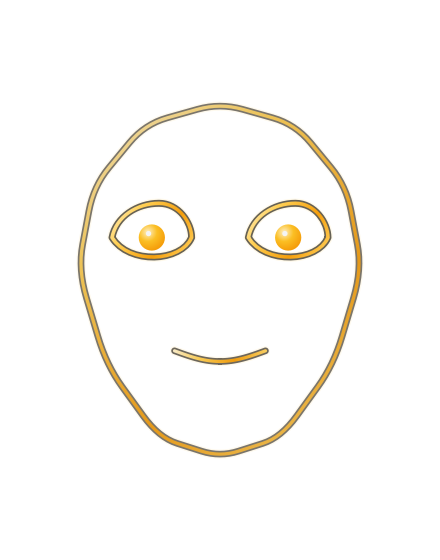
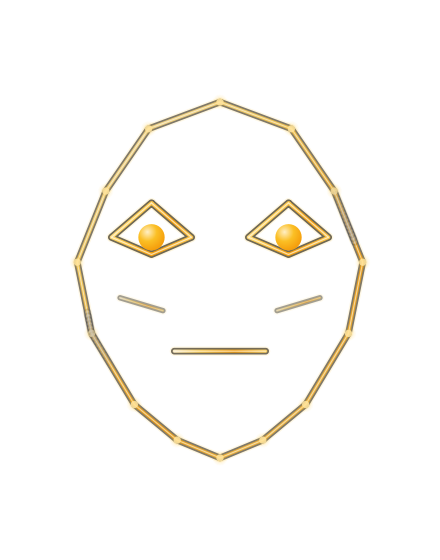
fix: restore the angular light-beam face with flowing highlights (#862)
The rounded face lost Jarvis's recognisable light-beam mask. Restore the original angular crown, temples and jaw, diamond eyes, glowing junctions, cheek accents and a straight resting mouth.

Add bright narrow beam cores and two slow flowing highlights that intensify during processing. Preserve the frameless transparent presence, bounded breathing and glances, hidden-window suspension and elapsed-time animation. Update the specification, actual-widget README image and reviewed visual baselines.

Validation: three rendered regression cases demonstrated failures before their changes. Face behaviour and visual tests: 276 passed. Animation and appearance at 2x DPI: 31 passed. Actual-widget light/dark state and motion previews inspected. Full unit suite: 2069 passed, one existing SQLite VSS skip. A screenshot-resolution failure was corrected with a fresh native vector capture. Local processing-state rendering averaged 1.07 ms per frame. This is vector lighting, not a GPU shader or a 3D renderer.

diff --git a/src/desktop_app/face_widget.py b/src/desktop_app/face_widget.py
@@ -127,10 +127,10 @@ def get_jarvis_state() -> JarvisStateManager:
 
 
 class FaceWidget(QWidget):
-    """A warm amber outline with quiet, time-based expressions.
+    """An angular light-beam mask with quiet, time-based expressions.
 
-    Only the contour, eyes and mouth paint over the desktop. Motion stays
-    within that silhouette, apart from a close-fitting interaction echo.
+    Only the connected beams, junctions, eyes and mouth paint over the desktop.
+    Motion stays within that silhouette, apart from a close-fitting interaction echo.
     """
 
     state_observed = pyqtSignal(str)
@@ -284,7 +284,9 @@ class FaceWidget(QWidget):
         self._draw_state_contour(painter, cx, cy, width, height)
         contour = self._face_contour(cx, cy, width, height)
         self._stroke(painter, contour, 1.65, 0.46 + 0.4 * self._activation_level)
-        self._draw_thinking_light(painter, contour)
+        self._draw_mask_junctions(painter, contour)
+        self._draw_accent_lines(painter, cx, cy, width, height)
+        self._draw_beam_flow(painter, contour)
         eye_y = cy - height * 0.12
         for is_left in (True, False):
             eye_x = cx + (-1 if is_left else 1) * width * 0.24
@@ -305,26 +307,45 @@ class FaceWidget(QWidget):
 
     @staticmethod
     def _face_contour(cx: float, cy: float, width: float, height: float) -> QPainterPath:
-        """A continuous, softly faceted silhouette with a rounded chin."""
+        """The angular crown, temples and tapered jaw of the light-beam mask."""
         hw, hh = width / 2, height / 2
         vertices = [QPointF(cx + x * hw, cy + y * hh) for x, y in (
-            (0, -1), (0.53, -0.88), (0.89, -0.53), (1, -0.06),
-            (0.80, 0.48), (0.43, 0.89), (0, 1), (-0.43, 0.89),
-            (-0.80, 0.48), (-1, -0.06), (-0.89, -0.53), (-0.53, -0.88),
+            (0, -1), (0.5, -0.85), (0.8, -0.5), (1, -0.1),
+            (0.9, 0.3), (0.6, 0.7), (0.3, 0.9), (0, 1),
+            (-0.3, 0.9), (-0.6, 0.7), (-0.9, 0.3), (-1, -0.1),
+            (-0.8, -0.5), (-0.5, -0.85),
         )]
-        path = QPainterPath()
-        for index, vertex in enumerate(vertices):
-            previous = vertices[index - 1]
-            following = vertices[(index + 1) % len(vertices)]
-            enter = vertex + (previous - vertex) * 0.30
-            leave = vertex + (following - vertex) * 0.30
-            if index == 0:
-                path.moveTo(enter)
-            else:
-                path.lineTo(enter)
-            path.quadTo(vertex, leave)
+        path = QPainterPath(vertices[0])
+        for vertex in vertices[1:]:
+            path.lineTo(vertex)
         path.closeSubpath()
         return path
+
+    def _draw_mask_junctions(self, painter: QPainter, contour: QPainterPath):
+        """Small fixed lights join the beams without wandering beyond the mask."""
+        painter.save()
+        painter.setPen(Qt.PenStyle.NoPen)
+        painter.setOpacity(0.46 + 0.4 * self._activation_level)
+        for index in range(contour.elementCount() - 1):
+            vertex = contour.elementAt(index)
+            glow = QRadialGradient(vertex.x, vertex.y, 4)
+            light = QColor(self.PRIMARY_COLOUR)
+            light.setAlpha(90)
+            glow.setColorAt(0, light)
+            glow.setColorAt(1, QColor(0, 0, 0, 0))
+            painter.setBrush(glow)
+            painter.drawEllipse(QPointF(vertex.x, vertex.y), 4, 4)
+            painter.setBrush(self.PRIMARY_COLOUR.lighter(150))
+            painter.drawEllipse(QPointF(vertex.x, vertex.y), 1.8, 1.8)
+        painter.restore()
+
+    def _draw_accent_lines(self, painter: QPainter, cx: float, cy: float,
+                           width: float, height: float):
+        """Short cheek beams give the transparent mask its geometric structure."""
+        for side in (-1, 1):
+            path = QPainterPath(QPointF(cx + side * width * 0.35, cy + height * 0.05))
+            path.lineTo(cx + side * width * 0.20, cy + height * 0.05 + width * 0.045)
+            self._stroke(painter, path, 1, 0.25 + 0.35 * self._activation_level)
 
     def _stroke(self, painter: QPainter, path: QPainterPath, width: float,
                 opacity: float, colour: Optional[QColor] = None):
@@ -339,7 +360,7 @@ class FaceWidget(QWidget):
         painter.setPen(pen)
         painter.drawPath(path)
         glow = QColor(colour or self.PRIMARY_COLOUR)
-        glow.setAlpha(24)
+        glow.setAlpha(36)
         pen.setColor(glow)
         pen.setWidthF(width + 3.0)
         painter.setPen(pen)
@@ -357,11 +378,17 @@ class FaceWidget(QWidget):
         pen.setWidthF(width)
         painter.setPen(pen)
         painter.drawPath(path)
+        core = QColor(colour or self.PRIMARY_COLOUR.lighter(185))
+        core.setAlpha(170)
+        pen.setColor(core)
+        pen.setWidthF(max(0.45, width * 0.35))
+        painter.setPen(pen)
+        painter.drawPath(path)
         painter.restore()
 
     def _draw_eye(self, painter: QPainter, ex: float, ey: float,
                   size: float, blink_factor: float, is_left: bool):
-        """Round, open eyes and relaxed closed lids, with no filled backdrop."""
+        """Diamond eye beams retain the mask identity through expressions and blinks."""
         openness = self._activation_level * (1.0 - blink_factor)
         height = size * (0.86 + self._listening * 0.10)
         if self._expression == Expression.HAPPY:
@@ -377,15 +404,13 @@ class FaceWidget(QWidget):
         height *= openness
         path = QPainterPath(QPointF(ex - size, ey))
         if openness < 0.05:
-            path.quadTo(ex, ey + size * 0.30, ex + size, ey)
+            path.lineTo(ex + size, ey)
             self._stroke(painter, path, 1.5, 0.52 + self._activation_level * 0.48)
             return
-        path.cubicTo(ex - size * 0.90, ey - height * 0.62,
-                     ex - size * 0.36, ey - height, ex + size * 0.18, ey - height)
-        path.cubicTo(ex + size * 0.68, ey - height,
-                     ex + size, ey - height * 0.44, ex + size, ey)
-        path.cubicTo(ex + size * 0.74, ey + height * 0.72,
-                     ex - size * 0.58, ey + height * 0.80, ex - size, ey)
+        path.lineTo(ex, ey - height)
+        path.lineTo(ex + size, ey)
+        path.lineTo(ex, ey + height * 0.5)
+        path.closeSubpath()
         opacity = 0.52 + self._activation_level * 0.48
         self._stroke(painter, path, 1.8, opacity)
         if openness < 0.15:
@@ -403,32 +428,31 @@ class FaceWidget(QWidget):
         painter.setBrush(pupil)
         painter.setPen(Qt.PenStyle.NoPen)
         painter.drawEllipse(QPointF(pupil_x, pupil_y), pupil_size, pupil_size)
-        painter.setBrush(QColor(COLORS['text_primary']))
-        painter.drawEllipse(QPointF(pupil_x - pupil_size * 0.25, pupil_y - pupil_size * 0.3),
-                            pupil_size * 0.20, pupil_size * 0.20)
         painter.restore()
 
-    def _draw_thinking_light(self, painter: QPainter, contour: QPainterPath):
-        """A short travelling rim glint leaves the eyes available for expression."""
-        if self._thinking < 0.001:
+    def _draw_beam_flow(self, painter: QPainter, contour: QPainterPath):
+        """Coherent energy flows through fixed beams, brighter during processing."""
+        if self._activation_level < 0.001:
             return
-        phase = self._state_elapsed / 3.6 % 1.0
-        for index in range(12):
-            start = (phase - index * 0.004) % 1.0
-            end = (start + 0.004) % 1.0
-            if end < start:
-                continue
-            glint = QPainterPath(contour.pointAtPercent(start))
-            glint.lineTo(contour.pointAtPercent(end))
-            self._stroke(painter, glint, 1.8, self._thinking * (1 - index / 12) * 0.7,
-                         self.PRIMARY_COLOUR.lighter(175))
+        # Continuous phase avoids a jump when the assistant changes state.
+        phase = self._elapsed / 12 % 1.0
+        intensity = self._activation_level * (0.22 + self._thinking * 0.48)
+        for offset in (0.0, 0.5):
+            for index in range(16):
+                start = (phase + offset - index * 0.004) % 1.0
+                end = (start + 0.004) % 1.0
+                if end < start:
+                    continue
+                glint = QPainterPath(contour.pointAtPercent(start))
+                glint.lineTo(contour.pointAtPercent(end))
+                self._stroke(painter, glint, 2.2, intensity * (1 - index / 16),
+                             self.PRIMARY_COLOUR.lighter(190))
 
     def _draw_mouth(self, painter: QPainter, cx: float, cy: float,
                     face_width: float, face_height: float):
-        """A slight smile opens into a quiet, tapered speaking waveform."""
+        """A straight mask seam opens into a quiet, tapered speaking waveform."""
         half_width = face_width * (0.16 + self._speaking * 0.075)
         mouth_y = cy + face_height * 0.20
-        smile = face_height * 0.03 * (1.0 - self._speaking * 0.7)
         amplitude = face_height * 0.035 * self._speaking
         path = QPainterPath(QPointF(cx - half_width, mouth_y))
         for step in range(1, 49):
@@ -436,7 +460,7 @@ class FaceWidget(QWidget):
             envelope = math.sin(t * math.pi)
             wave = (math.sin(t * math.tau * 2 - self._elapsed * 9)
                     + 0.25 * math.sin(t * math.tau * 3 + self._elapsed * 6)) / 1.25
-            y = mouth_y + smile * envelope + amplitude * wave * envelope ** 2
+            y = mouth_y + amplitude * wave * envelope ** 2
             path.lineTo(cx - half_width + 2 * half_width * t, y)
         self._stroke(painter, path, 1.6, 0.48 + self._activation_level * 0.48)
 

diff --git a/tests/test_face_animation.py b/tests/test_face_animation.py
@@ -66,8 +66,8 @@ def advance(scene, state, seconds, fps=30):
         window.face._animate()
 
 
-def test_idle_mouth_is_a_small_relaxed_smile(scene):
-    """The resting expression reads as welcoming at actual desktop size."""
+def test_idle_mouth_is_a_straight_mask_seam(scene):
+    """The resting mask has a straight light seam rather than a human smile."""
     window, _, _ = scene
     advance(scene, JarvisState.IDLE, 2)
     image = QImage(220, 280, QImage.Format.Format_ARGB32_Premultiplied)
@@ -82,7 +82,7 @@ def test_idle_mouth_is_a_small_relaxed_smile(scene):
     rows = np.arange(alpha.shape[0])
     heights = [np.average(rows, weights=alpha[:, x])
                for x in (occupied_x[0] + 3, centre, occupied_x[-1] - 3)]
-    assert heights[1] > max(heights[0], heights[2]) + 2
+    assert max(heights) - min(heights) < 0.5
     assert occupied_x[-1] - occupied_x[0] < 154 * 0.5
 
 
@@ -178,3 +178,34 @@ def test_rendered_states_match_the_reviewed_light_and_dark_appearance(scene, sta
     difference = np.abs(on_desktop(actual) - on_desktop(expected))
     assert difference.mean() < 0.5
     assert np.mean(np.max(difference, axis=2) > 20) < 0.005
+
+
+def test_mask_has_connected_straight_beams_and_lit_junctions(scene):
+    """The original angular mask remains recognisable at desktop size."""
+    window, _, _ = scene
+    advance(scene, JarvisState.IDLE, 2)
+    widget = window.face
+    alpha = pixels(render(widget))[:, :, 3]
+    cx, cy = window.width() / 2, window.height() / 2
+    hw = widget.FACE_WIDTH * widget._breathing_scale / 2
+    hh = widget.FACE_HEIGHT * widget._breathing_scale / 2
+    # Original crown and temple junctions, and the straight beam joining them.
+    for x, y in ((0.5, -0.85), (0.8, -0.5), (0.65, -0.675)):
+        px, py = round(cx + x * hw), round(cy + y * hh)
+        assert alpha[py-1:py+2, px-1:px+2].max() > 150
+
+
+def test_awake_beams_have_slow_flow_without_moving_the_mask(scene):
+    window, _, _ = scene
+    advance(scene, JarvisState.IDLE, 2)
+    window.face._breathing_scale = 1.0
+    window.face._activation_level = 1.0
+    first = pixels(render(window))
+    advance(scene, JarvisState.IDLE, 1)
+    window.face._breathing_scale = 1.0
+    window.face._activation_level = 1.0
+    second = pixels(render(window))
+    # Exclude eyes and mouth: energy should travel through the outer beams.
+    edge = np.ones(first.shape[:2], dtype=bool)
+    edge[115:215, 65:155] = False
+    assert np.abs(first[edge].astype(int) - second[edge].astype(int)).sum() > 1000

diff --git a/tests/test_face_presence.py b/tests/test_face_presence.py
@@ -147,7 +147,7 @@ def test_eye_surroundings_stay_transparent(face, state, expression,
                for y in range(image.height()))
     if expression == Expression.NEUTRAL and blink_factor == 0.0 and state != JarvisState.ASLEEP:
         # Desktop content is visible between the pupil and the eye outline.
-        gap_x = round((centre + size * 0.6) * scale)
-        assert image.pixelColor(gap_x, centre * scale).alpha() == 0
+        gap_x = round((centre + size * 0.5) * scale)
+        assert image.pixelColor(gap_x, round((centre - size * 0.2) * scale)).alpha() == 0
     assert any(image.pixelColor(x, y).alpha() > 0
                for x in range(image.width()) for y in range(image.height()))

diff --git a/src/desktop_app/desktop_app.spec.md b/src/desktop_app/desktop_app.spec.md
@@ -122,12 +122,15 @@ Window visibility is user-controlled: starting or stopping the assistant never s
 
 The face is a compact frameless, translucent tool window, always on top without
 accepting focus or activating when shown. macOS keeps the tool window visible
-when another application is active. It paints a softly faceted amber contour,
-rounded expressive eyes and a small relaxed smile. Fine strokes use the shared
-theme's amber palette with directional highlights and a narrow ink outline for
-contrast on light backgrounds. There is
+when another application is active. It paints an angular amber mask made from
+straight connected light beams, small illuminated junctions, diamond eyes,
+cheek accents and a straight mouth seam. Slow paired energy highlights travel
+around the fixed beams on a twelve-second cycle, with greater intensity during
+processing. Fine strokes use the shared theme's amber palette with directional
+highlights, bright narrow cores and a narrow ink outline for contrast on light
+backgrounds. There is
 no background panel, grid, title bar, subtitle area or persistent toolbar.
-Eyes paint only their outlines and softly lit pupils, with transparent
+Eyes paint only their outlines and small lit pupils, with transparent
 interiors and surroundings. Contrast and glow follow those strokes; there is
 no filled eye halo to obscure desktop content.
 
@@ -150,11 +153,11 @@ apart. Idle glances last 3.2 seconds, stay within 2.5 logical pixels horizontall
 and one vertically, and are separated by 9 to 15 seconds of rest. The face
 does not track the pointer or analyse the desktop.
 
-- **Asleep:** relaxed closed eyelids and a still, dim silhouette after settling.
-- **Idle:** soft breathing, a slight smile and occasional blinks and glances.
+- **Asleep:** straight closed eye beams and a still, dim silhouette after settling.
+- **Idle:** soft breathing, a straight mask seam and occasional blinks and glances.
 - **Listening:** receptive eyes and a close-fitting amber echo on a two-second cycle.
-- **Thinking:** pupils look gently upwards while a short highlight travels along the rim.
-- **Speaking:** the smile opens into a small, smoothly tapered waveform. It indicates
+- **Thinking:** pupils look gently upwards while the flowing beam highlights intensify.
+- **Speaking:** the mouth seam opens into a small, smoothly tapered waveform. It indicates
   the speaking state without measuring or recording audio.
 - **Dictation:** a close-fitting coral outline breathes during recording; processing
   combines that outline with the thinking expression.
